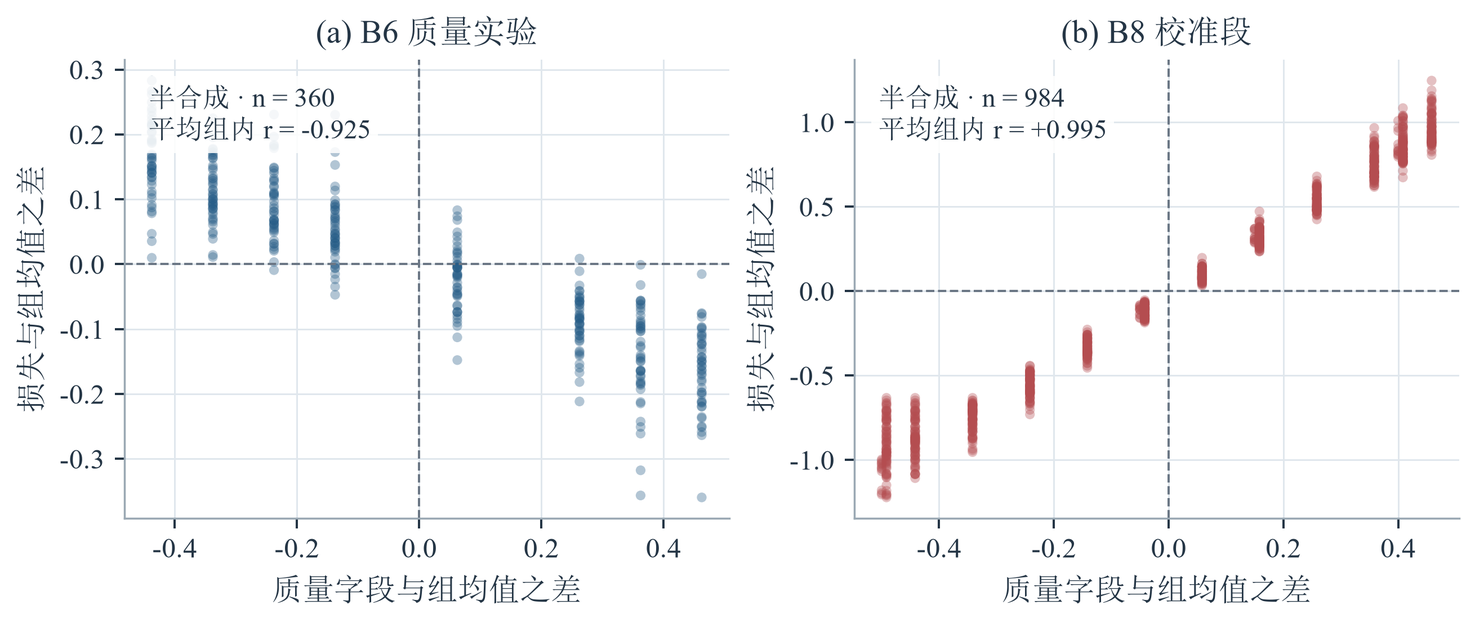
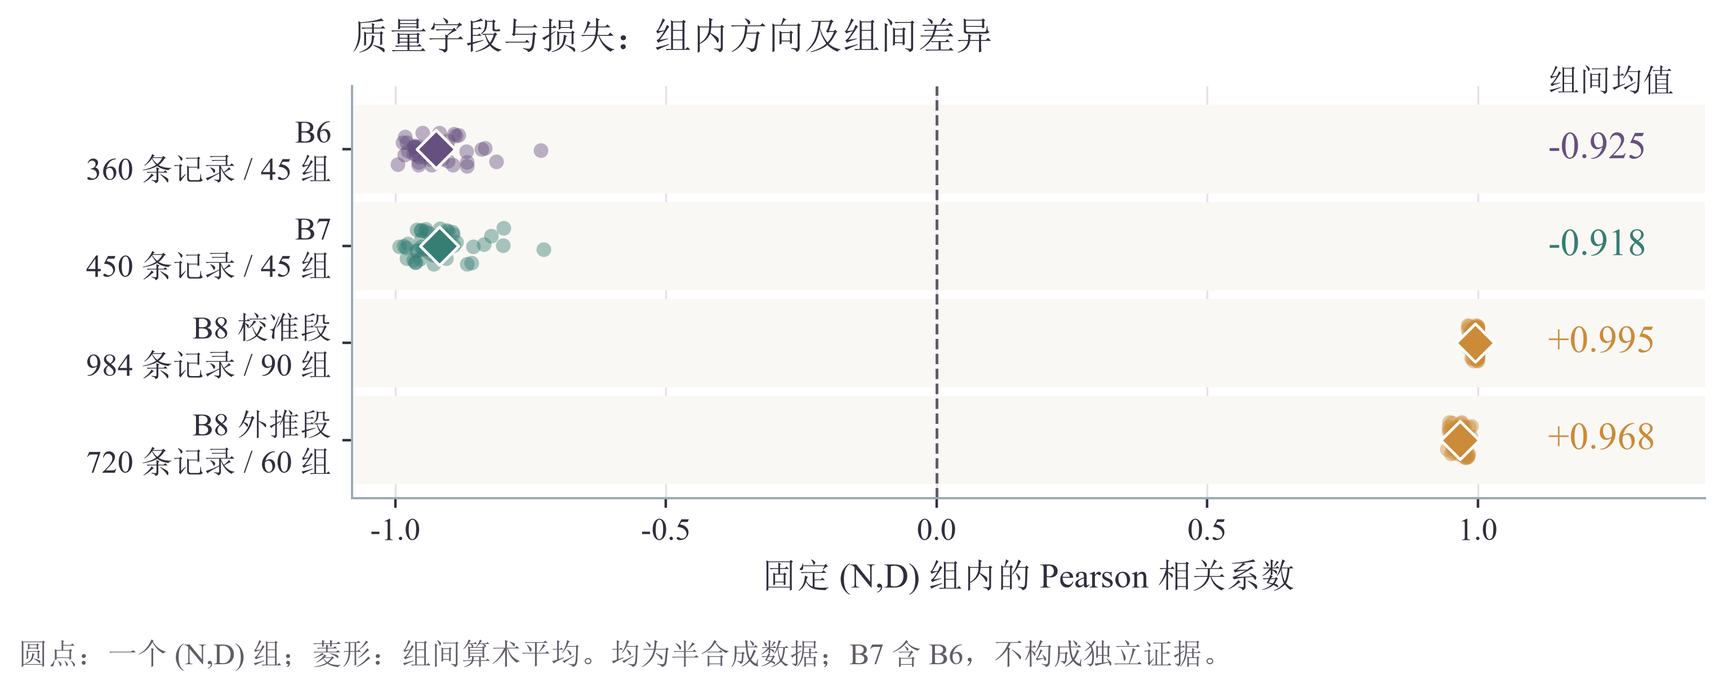
Redesign problem two figures and align manuscript descriptions

diff --git a/求解/问题二/重绘图表.py b/求解/问题二/重绘图表.py
@@ -2,7 +2,7 @@
 
 运行：python 重绘图表.py
 依赖：numpy pandas scipy matplotlib；字体：Windows 宋体、Times New Roman。
-输出：原图片目录中的同名高清 PNG；结果目录中图表复核指标。
+输出：原图片目录中的同名 PNG；不写入任何结果或参数文件。
 """
 from pathlib import Path
 import argparse
@@ -21,9 +21,9 @@ from scipy.spatial.distance import squareform
 
 HERE = Path(__file__).resolve().parent
 ROOT = HERE.parents[1]
-BLUE, TEAL, RED, GRAY = '#245B86', '#2B8C91', '#B44D50', '#6B7785'
-PALE, INK = '#EEF3F7', '#243545'
-CMAP = LinearSegmentedColormap.from_list('effect', ['#245B86', '#FAFAF8', '#B44D50'])
+BLUE, TEAL, RED, GRAY = '#665080', '#367E73', '#CB8B38', '#625C69'
+PALE, INK = '#FAF8F4', '#302F3D'
+CMAP = LinearSegmentedColormap.from_list('effect', ['#FAF3D8', '#D8B979', '#AD8792', '#6D527D', '#382F58'])
 
 
 def render_all(data_root=None):
@@ -51,7 +51,7 @@ def render_all(data_root=None):
         'axes.spines.top': False, 'axes.spines.right': False,
         'grid.color': '#E0E7ED', 'grid.linewidth': .6,
         'legend.frameon': False, 'pdf.fonttype': 42,
-        'savefig.dpi': 360, 'figure.facecolor': 'white', 'axes.facecolor': 'white',
+        'savefig.dpi': 400, 'figure.facecolor': 'white', 'axes.facecolor': 'white',
     })
     bdir = data_root / 'B_scaling_laws'
     read = lambda f: pd.read_csv(bdir / f)
@@ -66,7 +66,6 @@ def render_all(data_root=None):
     cl = pd.read_csv(HERE/'结果/经典标度律参数.csv').iloc[0]
     def classic(N,D): return cl.E+cl.A*np.asarray(N)**(-cl.alpha)+cl.B*np.asarray(D)**(-cl.beta)
     def model(N,D,Q): return E+A*np.asarray(N)**(-a)+B*np.asarray(D)**(-b)+C*(1-np.asarray(Q))**g
-    audit = {'parameters_unchanged': par.to_dict(), 'validation': []}
     def save(fig, name):
         fig.savefig(figdir/f'{name}.png', bbox_inches='tight', pad_inches=.08)
         plt.close(fig)
@@ -76,175 +75,178 @@ def render_all(data_root=None):
         ax.text(*xy, text, transform=ax.transAxes, ha='left', va='top', fontsize=9.5,
                 bbox=dict(facecolor='white',edgecolor='none',alpha=.88,pad=2.5))
 
-    # Analysis map: uncalibrated cross-source links stay visibly conditional.
-    fig,ax=plt.subplots(figsize=(7.2,3.05));ax.set(xlim=(0,10),ylim=(-.12,4));ax.axis('off')
-    def box(x,y,w,h,title,body,color=BLUE):
-        ax.add_patch(FancyBboxPatch((x,y),w,h,boxstyle='round,pad=0.05,rounding_size=0.08',
-                     facecolor=PALE,edgecolor=color,linewidth=.85))
-        ax.text(x+w/2,y+h-.22,title,ha='center',va='center',fontsize=11,color=color)
-        ax.text(x+w/2,y+.30,body,ha='center',va='center',fontsize=9.5,linespacing=1.4)
-    def arrow(x1,y1,x2,y2,dashed=False):
-        ax.add_patch(FancyArrowPatch((x1,y1),(x2,y2),arrowstyle='-|>',mutation_scale=11,
-                     linewidth=1,color=GRAY,linestyle='--' if dashed else '-'))
-    box(.1,2.8,2.6,.95,'规模信息 B1','真实训练轨迹\n经典标度律')
-    box(3.7,2.8,2.6,.95,'质量信息 B6','半合成质量实验\n质量缺口项',TEAL)
-    box(7.3,2.8,2.6,.95,'问题一输出','配比系数与参考配比\n领域效应结构',GRAY)
-    box(2.1,1.2,5.8,1.0,'广义标度关系',r'$L=E+AN^{-\alpha}+BD^{-\beta}+C(1-Q)^{\gamma}$')
-    arrow(1.4,2.77,3.2,2.23);arrow(5,2.77,5,2.23);arrow(8.6,2.77,7,2.23,True)
-    ax.text(8.2,2.37,'迁移假设',fontsize=9.5,ha='center',color=GRAY)
-    box(.6,.02,4.0,.77,'多来源检验','B2—B5、B7、B8、B10',GRAY)
-    box(5.4,.02,4.0,.77,'资源配置解释','边际效用 · 弹性 · 等损失关系',TEAL)
-    arrow(3.6,1.17,2.6,.83);arrow(6.4,1.17,7.4,.83)
-    save(fig,'图0_问题二分析框架')
-
-    # 1. Checkpoint trajectories and residuals use the same N,D per observation.
-    fig,axs=plt.subplots(1,2,figsize=(7.2,3.15),layout='constrained')
-    ns=sorted(py.N_params_B.unique());colors=[BLUE,TEAL,'#7294B0',GRAY]
-    for n,col in zip([ns[i] for i in [0,3,5,7]],colors):
-        sub=py[py.N_params_B.eq(n)].sort_values('D_tokens_B')
-        axs[0].plot(sub.D_tokens_B,classic(n,sub.D_tokens_B),color=col,lw=1.65,label=f'{n:.2f} B')
-        sub=sub.iloc[::9]
-        axs[0].scatter(sub.D_tokens_B,sub.val_loss,s=17,facecolor='white',edgecolor=col,lw=.7,zorder=3)
-    axs[0].set(xscale='log',xlabel='训练数据量 D / B tokens',ylabel='验证损失',title='(a) 代表模型的训练轨迹')
-    axs[0].legend(ncol=2,loc='upper right',title='参数量 N',title_fontsize=9.5)
-    note(axs[0],'空心点：附件记录\n实线：拟合曲线',(.04,.30))
-    pred=classic(py.N_params_B,py.D_tokens_B);err=pred-py.val_loss
-    axs[1].scatter(py.D_tokens_B,np.asarray(err)*1e4,s=7,alpha=.45,color=BLUE,edgecolors='none',rasterized=True)
-    axs[1].axhline(0,color=RED,lw=1)
-    axs[1].set(xscale='log',xlabel='训练数据量 D / B tokens',ylabel='预测残差 / 10⁻⁴',title='(b) 全部 1,176 个检查点残差')
-    note(axs[1],f'RMSE = {np.sqrt(np.mean(err**2)):.2e}')
-    for ax in axs:axes_style(ax)
-    save(fig,'图1_经典标度律拟合')
-
-    # 2. Six sources, six panels. Given values are not uniformly observations.
-    sets=[('B4  跨族收敛点','真实',read('scaling_baseline.csv'),1.,BLUE),
-          ('B5  文献标度数据','真实',read('published_scaling_data.csv'),1.,BLUE),
-          ('B7  新增质量点','半合成',b7n,b7n.Q_score,TEAL),
-          ('B2  Cerebras 轨迹','半合成',read('cerebras_training_log.csv'),1.,TEAL),
-          ('B8  校准段反向变换','半合成',b8c,1-b8c.Q_score,TEAL),
-          ('B10  大规模损失','估算',read('supplementary_large_baseline.csv'),1.,GRAY)]
-    fig,axs=plt.subplots(2,3,figsize=(7.2,5.7),layout='constrained')
-    for ax,(name,kind,df,q,col) in zip(axs.flat,sets):
-        y=df.val_loss.to_numpy();pred=model(df.N_params_B,df.D_tokens_B,q)
-        r=float(np.corrcoef(y,pred)[0,1]);rmse=float(np.sqrt(np.mean((y-pred)**2)))
-        mape=float(np.mean(abs(y-pred)/abs(y))*100)
-        audit['validation'].append(dict(dataset=name,n=len(df),r=r,RMSE=rmse,MAPE=mape))
-        lo=min(y.min(),pred.min());hi=max(y.max(),pred.max());pad=(hi-lo)*.09
-        ax.plot([lo-pad,hi+pad],[lo-pad,hi+pad],ls='--',color=GRAY,lw=.9,zorder=1)
-        ax.scatter(y,pred,s=14 if len(df)<150 else 5,color=col,alpha=.65,edgecolors='none',rasterized=True)
-        ax.set(xlim=(lo-pad,hi+pad),ylim=(lo-pad,hi+pad),xlabel='给定损失',ylabel='预测损失',title=f'{name}\n{kind} · n={len(df):,}')
-        ax.set_aspect('equal',adjustable='box');axes_style(ax)
-        note(ax,f'r = {r:.3f}\nMAPE = {mape:.1f}%')
-    save(fig,'图2_广义标度律验证')
-
-    # 3. Quality response and the conditional asymptotic floor.
-    q=np.linspace(.1,1,250)
-    fig,axs=plt.subplots(1,2,figsize=(7.2,3.0),layout='constrained')
-    for n,col in zip([.41,2.8,12],[BLUE,TEAL,RED]):
-        axs[0].plot(q,model(n,300,q),lw=1.8,color=col,label=f'N = {n:g} B')
-    axs[0].set(xlabel='数据质量 Q',ylabel='预测损失',title='(a) 固定数据量 D = 300 B tokens')
-    axs[0].legend(loc='upper right');axs[0].set_xlim(.1,1)
-    floor=E+C*(1-q)**g
-    axs[1].fill_between(q,E,floor,color=TEAL,alpha=.14,label='质量缺口项')
-    axs[1].plot(q,floor,color=TEAL,lw=1.8,label='模型渐近损失')
-    axs[1].axhline(E,color=GRAY,ls='--',lw=1,label=f'E = {E:.3f}')
-    for q0 in [.3,.6,1.]:
-        f0=E+C*(1-q0)**g
-        axs[1].scatter(q0,f0,color=TEAL,s=23,zorder=3)
-        axs[1].annotate(f'{f0:.3f}',(q0,f0),xytext=(-9,8 if q0!=1 else 12),textcoords='offset points',fontsize=9.5,ha='center')
-    axs[1].set(xlabel='数据质量 Q',ylabel='渐近损失',title='(b) 质量缺口与损失下限',xlim=(.1,1.03),ylim=(E-.04,2.03))
-    axs[1].legend(loc='upper right',fontsize=9)
-    for ax in axs:axes_style(ax)
-    save(fig,'图3_质量边际影响')
-
-    # 4. Derivatives have different units; elasticities enable a dimensionless comparison.
-    fig,axs=plt.subplots(1,3,figsize=(7.2,2.9),layout='constrained')
-    ng=np.geomspace(.07,12,200);qm=np.linspace(.1,.99,200)
-    axs[0].plot(ng,a*A*ng**(-a-1),color=BLUE,lw=1.8)
-    axs[0].set(xscale='log',yscale='log',xlabel='参数量 N / B',ylabel=r'$|\partial L/\partial N|$ / B$^{-1}$',title='(a) 参数边际效应')
-    axs[1].plot(qm,C*g*(1-qm)**(g-1),color=TEAL,lw=1.8)
-    axs[1].set(xlabel='数据质量 Q',ylabel=r'$|\partial L/\partial Q|$',title='(b) 质量边际效应',xlim=(.1,1))
-    note(axs[1],r'$Q\leq 0.99$')
-    el=pd.read_csv(HERE/'结果/弹性与替代关系.csv')
-    x=np.arange(3)
-    for i,col in enumerate([BLUE,TEAL]):
-        vals=-el.iloc[i][['弹性e_N','弹性e_D','弹性e_Q']].to_numpy(float)
-        axs[2].bar(x+(i-.5)*.34,vals,.31,color=col,label=f'N={el.iloc[i,0]:g}, D={el.iloc[i,1]:g}')
-    axs[2].set(xticks=x,xticklabels=['参数 N','数据 D','质量 Q'],ylabel='损失弹性绝对值',title='(c) 无量纲弹性',ylim=(0,.135))
-    axs[2].legend(loc='upper left',fontsize=8.5,title='N、D 以 B 为单位；Q=0.6',title_fontsize=8)
-    for ax in axs:axes_style(ax,'y')
-    save(fig,'图4_边际效用对比')
-
-    # 5. Keep original targets, limit the display range, and distinguish scale extrapolation.
-    fig,axs=plt.subplots(1,2,figsize=(7.2,3.25),layout='constrained')
-    q=np.linspace(.1,1,600)
-    for target,col in zip([2.30,2.10,1.95],[BLUE,TEAL,RED]):
-        rhs=target-E-B*300**(-b)-C*(1-q)**g
-        n=np.full_like(q,np.nan);ok=rhs>0;n[ok]=(A/rhs[ok])**(1/a)
-        within=(n>=.07)&(n<=12);outside=(n>12)&(n<=1e4)
-        axs[0].plot(q,np.where(within,n,np.nan),color=col,lw=2,label=f'L = {target:.2f}')
-        axs[0].plot(q,np.where(outside,n,np.nan),color=col,lw=1.6,ls='--')
-    axs[0].axhspan(12,1e4,color=GRAY,alpha=.08)
-    axs[0].axhline(12,color=GRAY,lw=.8,ls=':')
-    axs[0].text(.12,19,'超过主拟合参数范围',fontsize=9,color=GRAY)
-    axs[0].set(xlim=(.1,1),ylim=(.07,1e4),yscale='log',xlabel='数据质量 Q',ylabel='所需参数量 N / B',title='(a) 等损失曲线，D = 300 B tokens')
-    axs[0].legend(loc='upper right',fontsize=9)
-    note(axs[0],'实线：主拟合参数范围\n虚线：规模外推情景',(.04,.98))
-    # Local substitution rate at a fixed reference quality, not equal-cost benefit.
-    ng=np.geomspace(.07,12,200);rate=C*g*.4**(g-1)/(a*A*ng**(-a-1))
-    axs[1].plot(ng,rate,color=BLUE,lw=1.8)
-    for n0 in [1,12]:
-        val=C*g*.4**(g-1)/(a*A*n0**(-a-1))
-        axs[1].scatter(n0,val,s=25,color=RED,zorder=3)
-        axs[1].annotate(f'{val:.3f}',(n0,val),xytext=(-34,9),textcoords='offset points',fontsize=10)
-    axs[1].set(xscale='log',yscale='log',xlabel='参考参数量 N / B',ylabel='局部等效增量比 / B',title='(b) Q = 0.6 时的局部替代率')
-    note(axs[1],r'$R_{NQ}\propto N^{\alpha+1}$',(.05,.95))
-    note(axs[1],'每单位质量的等效参数增量',(.05,.83))
-    for ax in axs:axes_style(ax)
-    save(fig,'图5_质量参数替代')
-
-    # 6. Cluster on the already computed cosine matrix; no refit or causal interpretation.
-    sim=pd.read_csv(HERE/'结果/领域替代互补矩阵.csv',index_col=0)
-    dist=np.sqrt(np.maximum(0,2*(1-sim.to_numpy())));np.fill_diagonal(dist,0)
-    order=leaves_list(linkage(squareform(dist,checks=False),method='average',optimal_ordering=True))
-    sim=sim.iloc[order,order]
-    names={'arxiv':'学术预印本','freelaw':'法律判例','nih_exporter':'科研项目','pubmed_central':'医学全文',
-           'wikipedia_en':'百科','dm_mathematics':'数学','github':'代码','philpapers':'哲学论文',
-           'stackexchange':'专业问答','enron_emails':'邮件','gutenberg_pg_19':'图书','pile_cc':'网页',
-           'ubuntu_irc':'技术聊天','europarl':'议会记录','hackernews':'科技社区','pubmed_abstracts':'医学摘要','uspto_backgrounds':'专利背景'}
-    labels=[names[x] for x in sim.index]
-    fig,ax=plt.subplots(figsize=(7.2,5.5),layout='constrained')
-    arr=np.ma.array(sim.to_numpy(),mask=np.triu(np.ones(sim.shape,dtype=bool),k=1))
-    mesh=ax.pcolormesh(arr,cmap=CMAP,vmin=-1,vmax=1,edgecolors='white',linewidth=.4)
-    ax.set(xticks=np.arange(17)+.5,yticks=np.arange(17)+.5,xlim=(0,17),ylim=(17,0))
-    ax.set_xticklabels(labels,rotation=55,ha='right',rotation_mode='anchor',fontsize=10)
-    ax.set_yticklabels(labels,fontsize=10);ax.tick_params(length=0)
-    ax.set_aspect('equal');ax.spines[['left','bottom']].set_visible(False)
-    for di,dj in [('wikipedia_en','pile_cc'),('pubmed_central','pubmed_abstracts'),('pubmed_central','enron_emails')]:
-        i,j=sim.index.get_loc(di),sim.index.get_loc(dj)
-        if i<j:i,j=j,i
-        ax.text(j+.5,i+.5,f'{sim.iloc[i,j]:.2f}',ha='center',va='center',fontsize=8.5,color='white')
-    ax.text(.53,.90,'暖色：相对效应趋同\n冷色：相对效应相反\n\n按效应相似性排序',transform=ax.transAxes,
-            ha='left',va='top',fontsize=11,linespacing=1.6,color=INK)
-    cb=fig.colorbar(mesh,ax=ax,shrink=.75,pad=.025,aspect=28);cb.set_label('中心化系数向量的余弦相似度')
-    save(fig,'图6_领域替代互补')
-
-    # 7. Within-group centered observations make the direction diagnostic inspectable.
-    fig,axs=plt.subplots(1,2,figsize=(7.2,3.0),layout='constrained')
-    for ax,df,title,col in [(axs[0],b6,'(a) B6 质量实验',BLUE),(axs[1],b8c,'(b) B8 校准段',RED)]:
-        groups=df.groupby(['N_params_B','D_tokens_B'])
-        centered=df[['Q_score','val_loss']]-groups[['Q_score','val_loss']].transform('mean')
-        cors=[sub.Q_score.corr(sub.val_loss) for _,sub in groups if sub.Q_score.nunique()>=3]
-        ax.scatter(centered.Q_score,centered.val_loss,s=12,alpha=.35,color=col,edgecolors='none',rasterized=True)
-        ax.axhline(0,color=GRAY,lw=.8,ls='--');ax.axvline(0,color=GRAY,lw=.8,ls='--')
-        ax.set(xlabel='质量字段与组均值之差',ylabel='损失与组均值之差',title=title)
-        note(ax,f'半合成 · n = {len(df):,}\n平均组内 r = {np.mean(cors):+.3f}')
-        axes_style(ax)
-        audit[title]={'n':len(df),'mean_within_group_r':float(np.mean(cors))}
-    save(fig,'图7_质量方向对照')
-    (HERE/'结果/图表复核指标.json').write_text(json.dumps(audit,ensure_ascii=False,indent=2),encoding='utf-8')
+    redesign(py,b6,b7,b7n,b8,b8c,read,model,classic,E,A,a,B,b,C,g,save)
     print('已更新原图片目录中的八张 PNG；模型参数未更改。')
 
+
+def redesign(py,b6,b7,b7n,b8,b8c,read,model,classic,E,A,a,B,b,C,g,save):
+    """改变视觉编码方式，以附件记录和只读模型输出生成八张图。"""
+    from scipy.cluster.hierarchy import dendrogram
+    from matplotlib.lines import Line2D
+    def title(ax,s): ax.set_title(s,loc='left',pad=12,fontsize=12)
+    def style(ax): ax.set_axisbelow(True);ax.grid(axis='x',color='#E5E1E8');ax.tick_params(length=3)
+    def foot(fig,s): fig.text(.02,.012,s,fontsize=9.5,color=GRAY,ha='left')
+
+    # 0. Evidence lanes keep the conditional p transfer outside the fitted N/D/Q equation.
+    fig,ax=plt.subplots(figsize=(7.8,3.5));ax.axis('off');ax.set(xlim=(0,10),ylim=(0,4.1))
+    for x,num,label,col in [(.1,'01','数据依据',BLUE),(3.55,'02','关系识别',TEAL),(7,'03','结果解释',RED)]:
+        ax.text(x,3.82,num,color=col,fontsize=23,va='center');ax.text(x+.65,3.82,label,fontsize=13,va='center',color=col)
+    def box(x,y,w,h,head,body,col):
+        ax.add_patch(FancyBboxPatch((x,y),w,h,boxstyle='round,pad=.025,rounding_size=.06',fc=PALE,ec='#E5E1E8',lw=.8))
+        ax.plot([x+.12,x+.12],[y+.15,y+h-.15],color=col,lw=3,solid_capstyle='round')
+        ax.text(x+.27,y+h-.23,head,fontsize=11.5,color=col,va='center')
+        ax.text(x+.27,y+.22,body,fontsize=10,va='center')
+    def arrow(x,y,u,v,dash=False):
+        ax.add_patch(FancyArrowPatch((x,y),(u,v),arrowstyle='-|>',mutation_scale=11,color=GRAY,lw=1.1,linestyle='--' if dash else '-'))
+    for y,h,t,col in [(2.4,'B1 · 规模轨迹','1,176 个检查点',BLUE),(1.25,'B6 · 质量实验','360 条半合成记录',TEAL),(.1,'问题一 · 配比输出','17 域效应系数',RED)]:box(.1,y,2.8,.86,h,t,col)
+    box(3.55,1.85,2.9,1.4,'规模—质量标度律',r'$E+AN^{-\alpha}+BD^{-\beta}$'+'\n'+r'$+\ C(1-Q)^\gamma$',BLUE)
+    box(3.55,.1,2.9,1.05,'领域效应结构','相似模式与任务权衡',RED)
+    box(7,2.4,2.85,.86,'跨来源检验','真实 / 半合成 / 估算',BLUE)
+    box(7,1.25,2.85,.86,'规模与质量取舍','弹性 / 等损失条件',TEAL)
+    box(7,.1,2.85,.86,'配比情景修正','在损失尺度可迁移时',RED)
+    arrow(2.95,2.8,3.5,2.8);arrow(2.95,1.68,3.5,2.05);arrow(2.95,.53,3.5,.53)
+    arrow(6.5,2.8,6.95,2.8);arrow(6.5,2.1,6.95,1.68);arrow(6.5,.53,6.95,.53,True)
+    fig.subplots_adjust(left=.01,right=.99,bottom=.01,top=.99);save(fig,'图0_问题二分析框架')
+
+    # 1. All B1 losses in a scale map, alongside per-model residual distributions.
+    ns=np.sort(py.N_params_B.unique());ds=np.sort(py.D_tokens_B.unique())
+    z=py.pivot(index='N_params_B',columns='D_tokens_B',values='val_loss').loc[ns,ds].to_numpy()
+    fig=plt.figure(figsize=(7.8,3.7));gs=fig.add_gridspec(1,2,width_ratios=[1.15,1],wspace=.3)
+    ax=fig.add_subplot(gs[0]);ar=fig.add_subplot(gs[1])
+    edges=np.r_[ds[0]/np.sqrt(ds[1]/ds[0]),np.sqrt(ds[:-1]*ds[1:]),ds[-1]*np.sqrt(ds[-1]/ds[-2])]
+    im=ax.pcolormesh(edges,np.arange(9)-.5,z,cmap=CMAP,shading='flat')
+    ax.set(xscale='log',yticks=np.arange(8),yticklabels=[f'{n:.2f}' for n in ns],xlabel='训练数据量 D / B tokens',ylabel='参数量 N / B',ylim=(-.5,7.5))
+    ax.set_xticks([.2,1,10,100]);ax.set_xticklabels(['0.2','1','10','100']);title(ax,'(a) 附件记录的损失地图')
+    cb=fig.colorbar(im,cax=ax.inset_axes([0,1.08,1,.045]),orientation='horizontal');cb.ax.tick_params(labelsize=9,length=2)
+    ax.set_title('(a) 附件记录的损失地图',loc='left',pad=43,fontsize=12)
+    residuals=[]
+    for n in ns:
+        sub=py[py.N_params_B.eq(n)];residuals.append((classic(n,sub.D_tokens_B)-sub.val_loss).to_numpy()*1e4)
+    v=ar.violinplot(residuals,positions=np.arange(8),vert=False,widths=.8,showextrema=False)
+    for body in v['bodies']:body.set(facecolor=BLUE,edgecolor=BLUE,alpha=.24,linewidth=.7)
+    for j,err in enumerate(residuals):
+        ar.scatter(err,np.full(len(err),j),s=3,color=BLUE,alpha=.2,edgecolors='none')
+        q25,med,q75=np.quantile(err,[.25,.5,.75]);ar.plot([q25,q75],[j,j],color=BLUE,lw=3);ar.scatter(med,j,s=18,color=RED,zorder=4)
+    ar.axvline(0,color=GRAY,ls='--',lw=.8);ar.set(yticks=np.arange(8),yticklabels=[f'{n:.2f}' for n in ns],ylim=(-.5,7.5),xlabel='预测残差 / 10⁻⁴')
+    ar.set_title('(b) 各参数规模的拟合残差',loc='left',pad=43,fontsize=12);style(ar)
+    fig.subplots_adjust(left=.09,right=.985,bottom=.23,top=.75)
+    foot(fig,'B1：8 个模型 × 147 个检查点；左图颜色表示验证损失。\n右图：点为记录，粗线为四分位区间，金点为中位数；分布宽度表示平滑密度。')
+    save(fig,'图1_经典标度律拟合')
+
+    # 2. Error distributions and MAPE replace the six overlapping prediction clouds.
+    sets=[('B4  跨族收敛点','真实',read('scaling_baseline.csv'),1.,BLUE),('B5  文献标度数据','真实',read('published_scaling_data.csv'),1.,BLUE),
+        ('B7  新增质量点','半合成',b7n,b7n.Q_score,TEAL),('B2  Cerebras','半合成',read('cerebras_training_log.csv'),1.,TEAL),
+        ('B8  校准段','半合成',b8c,1-b8c.Q_score,TEAL),('B10 大规模损失','估算',read('supplementary_large_baseline.csv'),1.,RED)]
+    fig=plt.figure(figsize=(7.8,4.2));gs=fig.add_gridspec(1,2,width_ratios=[1.75,1],wspace=.25)
+    ax=fig.add_subplot(gs[0]);ar=fig.add_subplot(gs[1],sharey=ax);rng=np.random.default_rng(20260925)
+    saved=pd.read_csv(HERE/'结果/广义标度律分层验证.csv');labels=[]
+    for j,(name,kind,df,q,col) in enumerate(sets):
+        y=df.val_loss.to_numpy();pred=model(df.N_params_B,df.D_tokens_B,q);err=100*(pred-y)/y;mape=np.mean(abs(err));r=np.corrcoef(y,pred)[0,1]
+        old=saved[saved.dataset.str.startswith(name.split()[0])].iloc[0]
+        assert np.isclose(mape,old['MAPE_%'],atol=1e-10) and np.isclose(r,old.r,atol=1e-10)
+        labels.append(f'{name}\n{kind} · n={len(df):,}');ax.axhspan(j-.45,j+.45,color=PALE,zorder=0)
+        v=ax.violinplot([err],positions=[j],vert=False,widths=.62,showextrema=False);v['bodies'][0].set(facecolor=col,edgecolor=col,alpha=.2)
+        ax.scatter(err,j+rng.uniform(-.1,.1,len(err)),s=5,alpha=.26,color=col,lw=0)
+        q25,med,q75=np.quantile(err,[.25,.5,.75]);ax.plot([q25,q75],[j,j],lw=3,color=col);ax.scatter(med,j,s=20,fc='white',ec=col,zorder=4)
+        ar.plot([.5,mape],[j,j],color=col,lw=2);ar.scatter(mape,j,s=45,color=col,zorder=3)
+        ar.text(mape*1.17,j,f'{mape:.1f}%',va='center',fontsize=10,color=col);ar.text(1.35,j,f'{r:.3f}',transform=ar.get_yaxis_transform(),va='center',ha='center',fontsize=10)
+    ax.axvline(0,color=INK,lw=.8,ls='--');ax.set(yticks=np.arange(6),yticklabels=labels,ylim=(5.6,-.65),xlabel='有符号相对误差 / %');title(ax,'(a) 误差方向与样本分布');style(ax)
+    ax.set_xscale('symlog',linthresh=10);ax.set_xticks([-50,-10,0,10,50,200,500]);ax.set_xticklabels(['−50','−10','0','10','50','200','500'],fontsize=9)
+    ar.set(xscale='log',xlim=(.5,350),xlabel='MAPE / %（对数轴）');ar.tick_params(axis='y',left=False,labelleft=False)
+    ar.set_xticks([1,10,100]);ar.set_xticklabels(['1','10','100']);title(ar,'(b) 平均误差');ar.text(1.35,-.6,'r',transform=ar.get_yaxis_transform(),ha='center',va='center',fontstyle='italic');style(ar)
+    fig.subplots_adjust(left=.2,right=.89,bottom=.22,top=.88)
+    foot(fig,'左轴为对称对数轴，±10% 内线性；误差 = 100 × (预测值 − 给定值) / 给定值。\nB8 使用 1−Q 方向变换；空心点为中位数，粗线为四分位区间。');save(fig,'图2_广义标度律验证')
+
+    # 3. N-Q contour map and asymptotic loss increments; raw design sites are explicit.
+    fig=plt.figure(figsize=(7.8,3.7));gs=fig.add_gridspec(1,2,width_ratios=[1.25,1],wspace=.42)
+    ax=fig.add_subplot(gs[0]);ar=fig.add_subplot(gs[1]);q=np.linspace(.1,1,240);n=np.geomspace(.07,12,240);Q,N=np.meshgrid(q,n);Z=model(N,300,Q)
+    cs=ax.contourf(Q,N,Z,levels=np.linspace(2.08,3.15,20),cmap=CMAP,extend='both')
+    cont=ax.contour(Q,N,Z,levels=[2.2,2.4,2.6,2.8,3.0],colors='white',linewidths=.8);ax.clabel(cont,fmt='%.1f',fontsize=9,inline_spacing=5,manual=[(.7,6),(.55,1.6),(.45,.45),(.3,.14),(.3,.075)])
+    design=b6[b6.D_tokens_B.eq(300)];ax.scatter(design.Q_score,design.N_params_B,s=9,facecolors='none',edgecolors=INK,linewidths=.35,alpha=.5)
+    ax.set(yscale='log',xlabel='数据质量 Q',ylabel='参数量 N / B',xlim=(.1,1),ylim=(.07,12));title(ax,'(a) 规模—质量响应面')
+    cb=fig.colorbar(cs,ax=ax,pad=.03,fraction=.06,ticks=[2.2,2.6,3.0]);cb.set_label('预测损失',fontsize=10)
+    for j,(q0,col) in enumerate(zip([1.,.6,.3],[TEAL,RED,BLUE])):
+        floor=E+C*(1-q0)**g;ar.barh(j,floor-E,left=E,height=.4,color=col,alpha=.85);ar.scatter(floor,j,s=50,color=col,zorder=3);ar.text(floor+.012,j,f'{floor:.3f}',va='center',color=col,fontsize=12)
+    ar.axvline(E,color=GRAY,ls='--',lw=1);ar.set(yticks=[0,1,2],yticklabels=['Q = 1.0','Q = 0.6','Q = 0.3'],ylim=(2.7,-.7),xlim=(1.62,2.015),xlabel='模型渐近损失')
+    ar.text(E,2.57,f'E = {E:.3f}',ha='center',fontsize=10,color=GRAY);title(ar,'(b) 质量缺口对下限的抬升');style(ar)
+    fig.subplots_adjust(left=.085,right=.98,bottom=.23,top=.85);foot(fig,'左图固定 D=300 B tokens；空心点为 B6 半合成实验位置，底色与等值线为模型预测。');save(fig,'图3_质量边际影响')
+
+    # 4. Marginal response locations and a dumbbell comparison of saved elasticities.
+    fig,axs=plt.subplots(1,3,figsize=(7.8,3.5),gridspec_kw={'width_ratios':[1,1,1.35]})
+    nvals=np.array([.07,.3,1,3,12]);qvals=np.array([.1,.3,.6,.9,.99])
+    for ax,effect,col,labels,xlabel,heading in [
+        (axs[0],a*A*nvals**(-a-1),BLUE,[f'{n:g}' for n in nvals],r'$|\partial L/\partial N|$ / B$^{-1}$','(a) 参数边际效应'),
+        (axs[1],C*g*(1-qvals)**(g-1),RED,[f'{q:g}' for q in qvals],r'$|\partial L/\partial Q|$','(b) 质量边际效应')]:
+        ypos=np.arange(5);base=effect.min()*.8 if ax is axs[0] else .34
+        ax.hlines(ypos,base,effect,color=col,lw=2);ax.scatter(effect,ypos,color=col,s=35,zorder=3)
+        ax.set(yticks=ypos,yticklabels=labels,ylim=(4.5,-.6),xlabel=xlabel);title(ax,heading);style(ax)
+    axs[0].set_xscale('log');axs[0].set_ylabel('参考参数量 N / B')
+    axs[1].set(xlim=(.34,.391),ylabel='参考质量 Q',xticks=[.35,.37,.39])
+    el=pd.read_csv(HERE/'结果/弹性与替代关系.csv');v=-el[['弹性e_N','弹性e_D','弹性e_Q']].to_numpy();ar=axs[2]
+    for j in range(3):
+        ar.plot(v[:,j],[j,j],color='#E5E1E8',lw=5,zorder=1)
+        for i,col in enumerate([BLUE,TEAL]):
+            ar.scatter(v[i,j],j,s=48,color=col,zorder=3,marker=['o','D'][i],label=['N=1, D=100','N=12, D=300'][i] if j==0 else None)
+            ar.annotate(f'{v[i,j]:.3f}',(v[i,j],j),xytext=(0,10 if i==0 else -16),textcoords='offset points',ha='center',fontsize=9,color=col)
+    ar.set(yticks=[0,1,2],yticklabels=['参数 N','数据 D','质量 Q'],ylim=(2.55,-.75),xlim=(.01,.112),xlabel='弹性绝对值')
+    title(ar,'(c) 两个参考点的敏感度');style(ar);ar.legend(loc='upper center',bbox_to_anchor=(.5,-.2),ncol=1,fontsize=9)
+    fig.subplots_adjust(left=.075,right=.98,bottom=.28,top=.85,wspace=.52)
+    foot(fig,'边际导数分别采用各自量纲；弹性为无量纲指标。参考点均取 Q=0.6，N、D 以 B 为单位。');save(fig,'图4_边际效用对比')
+
+    # 5. Three original loss targets, separate panels, explicit scale extrapolation.
+    fig,axs=plt.subplots(1,3,figsize=(7.8,3.25),sharex=True);ng=np.geomspace(.07,1e4,1200);base=E+B*300**(-b)
+    for ax,target,col in zip(axs,[2.30,2.10,1.95],[BLUE,TEAL,RED]):
+        remaining=target-base-A*ng**(-a);qreq=np.full_like(ng,np.nan);valid=remaining>=0
+        qreq[valid]=1-(remaining[valid]/C)**(1/g);qreq[(qreq<.1)|(qreq>1)]=np.nan
+        ax.axvspan(.07,12,color=TEAL,alpha=.065);ax.axvspan(12,1e4,color=RED,alpha=.075);ax.axvline(12,color=GRAY,ls=':',lw=1)
+        ax.plot(ng,np.where(ng<=12,qreq,np.nan),color=col,lw=2.5);ax.plot(ng,np.where(ng>12,qreq,np.nan),color=col,lw=2,ls='--')
+        ax.set(xscale='log',xlim=(.07,1e4),ylim=(.08,1.035),xlabel='参数量 N / B',xticks=[.1,10,1e3],ylabel='所需质量 Q');title(ax,f'目标损失 L = {target:.2f}');ax.grid(axis='y')
+        min_n=(A/(target-base))**(1/a)
+        if .07<min_n<1e4:
+            ax.scatter(min_n,1,s=32,color=col,zorder=3)
+            pos=(.74,.83) if target==2.30 else ((.27,.48) if target==2.10 else (.43,.73))
+            ax.annotate(f'Q=1\nN={min_n:.1f} B',(min_n,1),xytext=pos,textcoords='axes fraction',fontsize=10,color=col,ha='center',va='top',arrowprops=dict(arrowstyle='-',lw=.7,color=col))
+        if target==1.95:
+            ax.set_ylim(.95,1.008);ax.set_yticks([.96,.98,1]);ax.text(.06,.1,'高质量区间放大',transform=ax.transAxes,fontsize=10,color=col)
+    fig.subplots_adjust(left=.08,right=.985,bottom=.24,top=.82,wspace=.38)
+    foot(fig,'D=300 B tokens。实线：N≤12 B；虚线：规模外推。右图单独放大纵轴；阴影区分拟合规模与外推规模。');save(fig,'图5_质量参数替代')
+
+    # 6. All 17 domains via A-derived question-one coefficients, not raw A refitting.
+    names={'arxiv':'学术预印本','freelaw':'法律判例','nih_exporter':'科研项目','pubmed_central':'医学全文',
+        'wikipedia_en':'百科','dm_mathematics':'数学','github':'代码','philpapers':'哲学论文','stackexchange':'专业问答',
+        'enron_emails':'邮件','gutenberg_pg_19':'图书','pile_cc':'网页','ubuntu_irc':'技术聊天','europarl':'议会记录',
+        'hackernews':'科技社区','pubmed_abstracts':'医学摘要','uspto_backgrounds':'专利背景'}
+    coef=pd.read_csv(ROOT/'求解/问题一/结果/混合系数矩阵.csv').set_index('training_domain')
+    saved_sim=pd.read_csv(HERE/'结果/领域替代互补矩阵.csv',index_col=0);coef=coef.loc[saved_sim.index]
+    center=coef.to_numpy()-coef.to_numpy().mean(axis=0);unit=center/np.linalg.norm(center,axis=1,keepdims=True);sim=unit@unit.T
+    assert np.allclose(sim,saved_sim.to_numpy(),atol=1e-12)
+    dist=np.sqrt(np.maximum(0,2*(1-sim)));np.fill_diagonal(dist,0);tree=linkage(squareform(dist,checks=False),method='average',optimal_ordering=True)
+    pairs=sorted([(sim[i,j],i,j) for i in range(17) for j in range(i)],key=lambda t:t[0]);selected=list(reversed(pairs[-4:]))+pairs[:4]
+    fig=plt.figure(figsize=(7.8,5.15));gs=fig.add_gridspec(1,2,width_ratios=[1,1.48],wspace=.88)
+    ax=fig.add_subplot(gs[0]);ar=fig.add_subplot(gs[1])
+    dendrogram(tree,orientation='left',labels=[names[x] for x in coef.index],ax=ax,color_threshold=0,above_threshold_color=BLUE,leaf_font_size=10)
+    ax.set_xlabel('平均连接距离');title(ax,'(a) 17 域效应模式聚类');ax.grid(axis='x');ax.spines[['top','right','left']].set_visible(False)
+    labels=[]
+    for j,(value,i,k) in enumerate(selected):
+        col=TEAL if value>=0 else RED;labels.append(names[coef.index[i]]+' / '+names[coef.index[k]])
+        ar.barh(j,value,height=.55,color=col,alpha=.85);ar.text(value*.5,j,f'{value:+.3f}',ha='center',va='center',fontsize=10,color='white')
+    ar.axvline(0,color=GRAY,lw=.8);ar.axhline(3.5,color='#E5E1E8',lw=1.5)
+    ar.set(yticks=np.arange(8),yticklabels=labels,ylim=(7.7,-.8),xlim=(-1.05,1.05),xlabel='中心化系数的余弦相似度');title(ar,'(b) 最相似与最相反的领域对');style(ar)
+    fig.subplots_adjust(left=.04,right=.98,top=.87,bottom=.17)
+    foot(fig,'依据问题一配比系数；聚类距离为 √(2−2s)。绿色：相对效应趋同；金色：相对效应相反。\n右图分别选取 s 最大与最小的 4 对；相似性不直接表示替代效率或互补增益。');save(fig,'图6_领域替代互补')
+
+    # 7. Group correlation distributions rather than point clouds mixing all groups.
+    fig,ax=plt.subplots(figsize=(7.8,3.1));rng=np.random.default_rng(19)
+    datasets=[('B6',b6,BLUE),('B7',b7,TEAL),('B8 校准段',b8c,RED),('B8 外推段',b8[b8.data_type.eq('extrapolated')],RED)];labels=[]
+    for j,(name,df,col) in enumerate(datasets):
+        cors=np.array([group.Q_score.corr(group.val_loss) for _,group in df.groupby(['N_params_B','D_tokens_B']) if group.Q_score.nunique()>=3]);assert len(cors)>0
+        labels.append(f'{name}\n{len(df):,} 条记录 / {len(cors)} 组');ax.axhspan(j-.44,j+.44,color=PALE)
+        ax.scatter(cors,j+rng.uniform(-.19,.19,len(cors)),s=22,color=col,alpha=.43,lw=0);ax.scatter(cors.mean(),j,s=75,marker='D',color=col,ec='white',lw=.9,zorder=4)
+        ax.text(1.13,j,f'{cors.mean():+.3f}',va='center',ha='left',color=col,fontsize=12)
+    ax.axvline(0,color=GRAY,ls='--',lw=.9);ax.set(xlim=(-1.08,1.42),ylim=(3.6,-.65),yticks=np.arange(4),yticklabels=labels,xticks=[-1,-.5,0,.5,1],xlabel='固定 (N,D) 组内的 Pearson 相关系数')
+    ax.text(1.13,-.6,'组间均值',fontsize=10,ha='left');title(ax,'质量字段与损失：组内方向及组间差异');style(ax)
+    fig.subplots_adjust(left=.21,right=.98,top=.84,bottom=.25)
+    foot(fig,'圆点：一个 (N,D) 组；菱形：组间算术平均。均为半合成数据；B7 含 B6，不构成独立证据。');save(fig,'图7_质量方向对照')
 
 if __name__=='__main__':
     parser=argparse.ArgumentParser();parser.add_argument('--data-dir');args=parser.parse_args()
